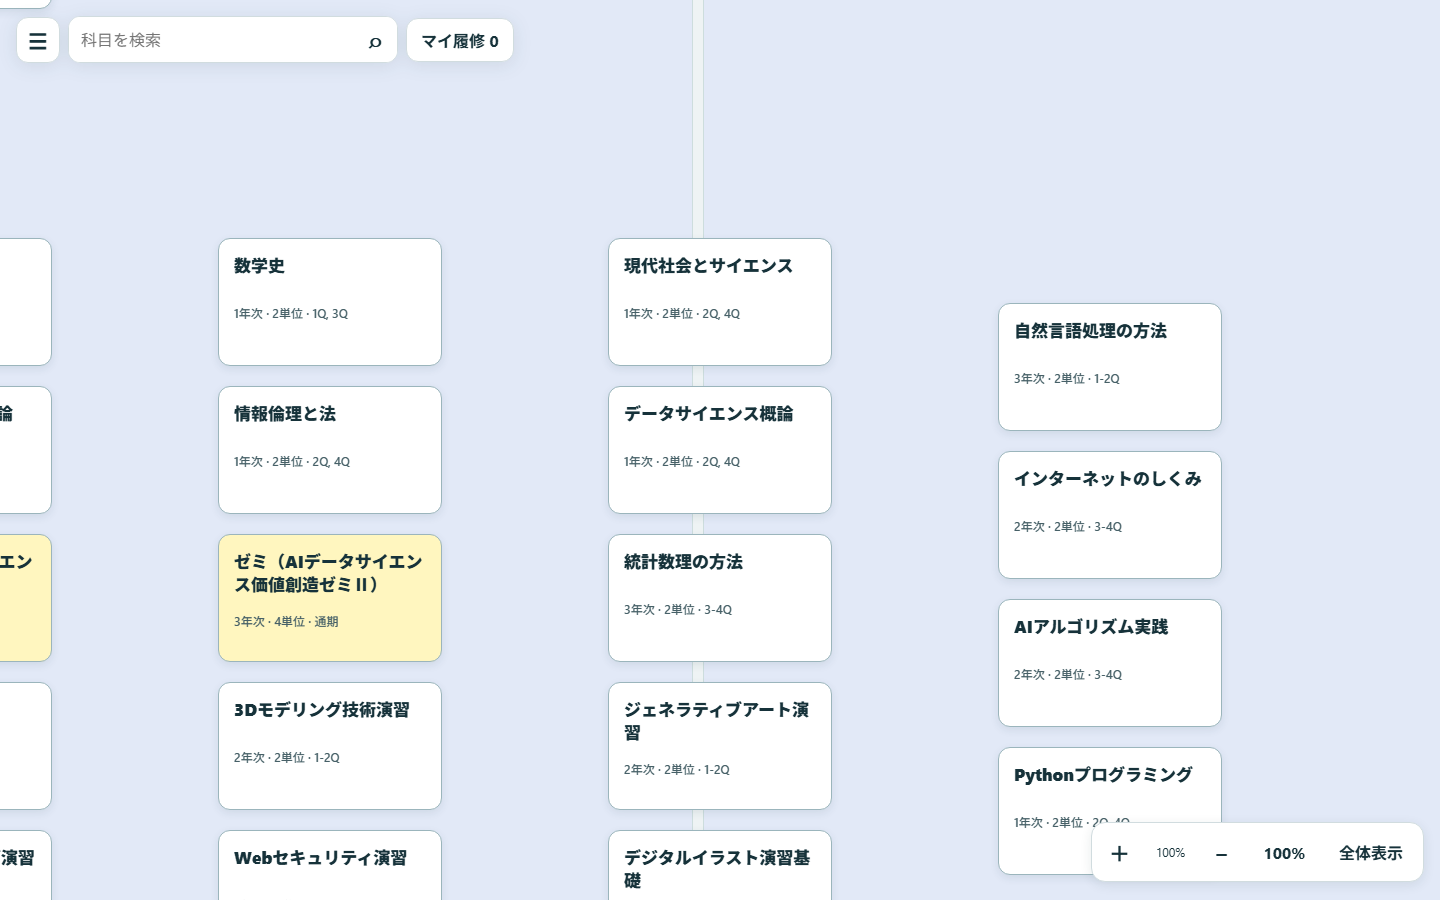
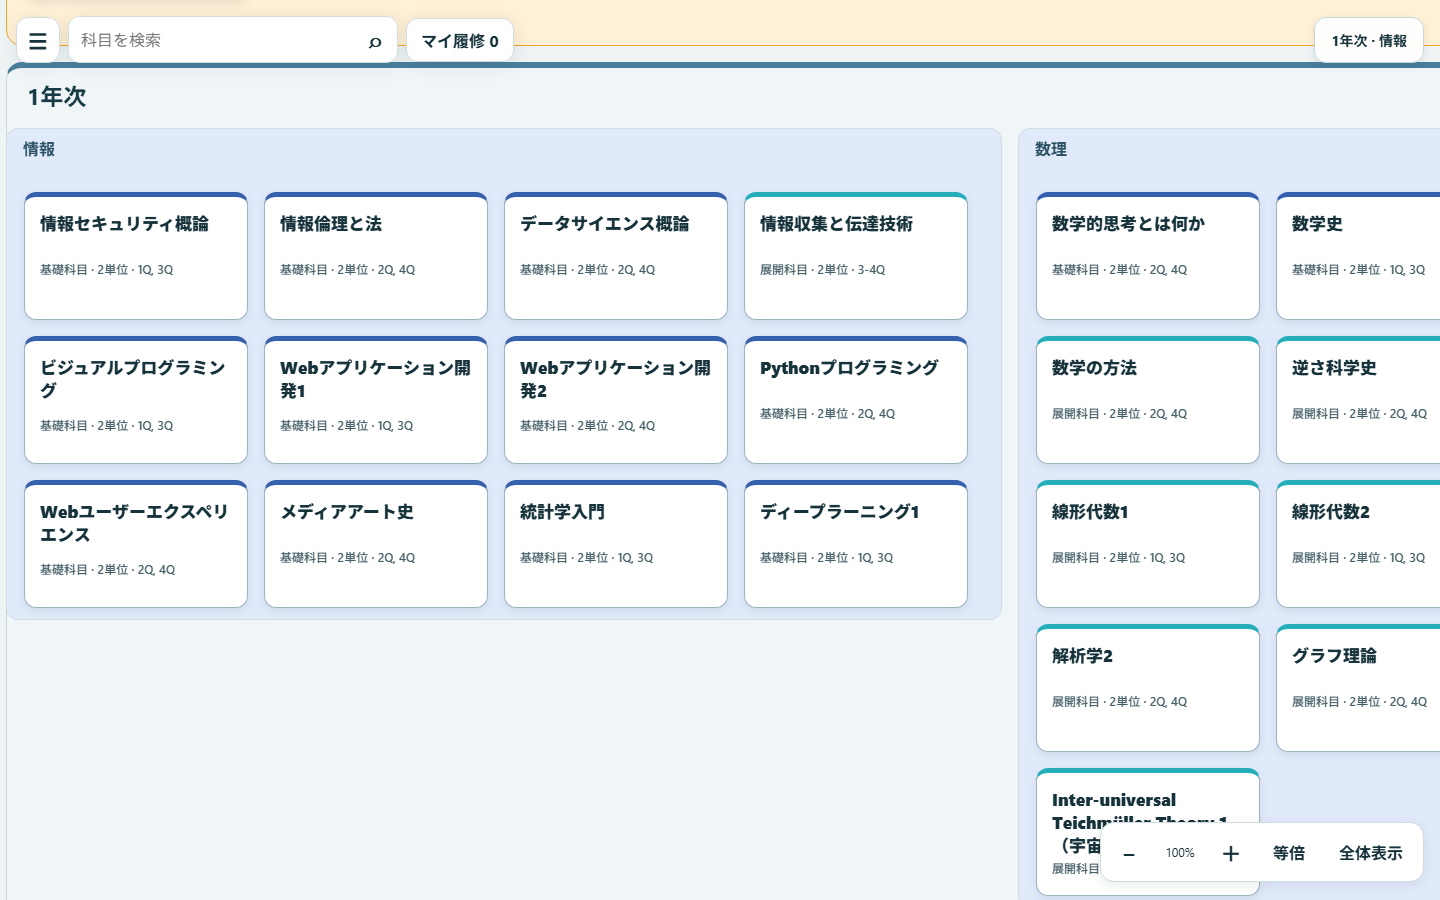
Redesign curriculum map layout and region navigation

diff --git a/curriculum-map.js b/curriculum-map.js
@@ -15,29 +15,66 @@
 }(typeof globalThis !== 'undefined' ? globalThis : this, () => {
   const CARD_WIDTH = 224;
   const CARD_HEIGHT = 128;
-  const GAP = 20;
+  const CARD_PITCH_X = 240;
+  const CARD_PITCH_Y = 144;
+  const FIELD_ORDER = ['情報', '数理', '多言語', '文化・思想', '社会・ネットワーク', '経済・マーケット', 'デジタル産業', '社会接続', '自由科目'];
+  const FIELD_COLORS = { 情報: '#e1eafb', 数理: '#e1eafb', 多言語: '#ffe5ed', '文化・思想': '#e2f4f1', '社会・ネットワーク': '#e2f4f1', '経済・マーケット': '#e2f4f1', デジタル産業: '#e2f4f1', 社会接続: '#f0f0df', 自由科目: '#eee6f4' };
   const intersects = (a, b) => a.x < b.x + b.width && b.x < a.x + a.width && a.y < b.y + b.height && b.y < a.y + a.height;
 
-  // Source coordinates retain the reviewed PDF arrangement. Their rectangles
-  // overlap partially even when there are no identical slots. Expand the map
-  // and move only colliding display boxes downward; never rewrite source data.
+  // The PDF positions identify subject order and field, but scaling them
+  // literally produces gaps and overlaps at a readable card size. Keep that
+  // order within each verified year/field group; never infer membership from
+  // pixel proximity or rewrite the reviewed placement JSON.
   const buildLayout = (definition, courses) => {
     const byId = new Map(courses.map((course) => [course.id, course]));
+    if (byId.size !== courses.length || definition.coursePlacements.length !== courses.length) throw new Error('科目配置の数を確認できません');
+    const entries = definition.coursePlacements;
+    if (entries.some((entry) => !byId.has(entry.courseId) || !Number.isFinite(entry.x) || !Number.isFinite(entry.y))) throw new Error('科目配置を確認できません');
+    const sortBySource = (a, b) => a.y - b.y || a.x - b.x || a.courseId.localeCompare(b.courseId);
     const placed = [];
-    const source = [...definition.coursePlacements].sort((a, b) => a.y - b.y || a.x - b.x || a.courseId.localeCompare(b.courseId));
-    for (const entry of source) {
-      if (!byId.has(entry.courseId) || ![entry.x, entry.y].every(Number.isFinite)) throw new Error('科目配置を確認できません');
-      const box = { id: entry.courseId, x: entry.x * 6000, y: entry.y * 6500, width: CARD_WIDTH, height: CARD_HEIGHT, sourceX: entry.x, sourceY: entry.y };
-      for (;;) {
-        const padded = { x: box.x - GAP / 2, y: box.y - GAP / 2, width: box.width + GAP, height: box.height + GAP };
-        const collisions = placed.filter((other) => intersects(padded, other));
-        if (!collisions.length) break;
-        box.y = Math.max(...collisions.map((other) => other.y + other.height)) + GAP;
-      }
-      placed.push(box);
+    const put = (entry, x, y, region) => placed.push({ id: entry.courseId, x, y, width: CARD_WIDTH, height: CARD_HEIGHT, sourceX: entry.x, sourceY: entry.y, year: byId.get(entry.courseId).year, field: entry.field, stage: entry.category, region });
+    const intro = entries.filter((entry) => entry.category === '導入科目').sort(sortBySource);
+    const introColumns = [...new Set(intro.map((entry) => entry.x))].sort((a, b) => a - b);
+    const introSlots = new Map();
+    intro.forEach((entry) => {
+      const column = introColumns.indexOf(entry.x);
+      const row = introSlots.get(column) || 0;
+      introSlots.set(column, row + 1);
+      put(entry, 84 + column * CARD_PITCH_X, 178 + row * CARD_PITCH_Y, 'intro');
+    });
+    const introHeight = 178 + Math.max(...introSlots.values(), 0) * CARD_PITCH_Y + 46;
+    const gridEntries = entries.filter((entry) => entry.category !== '導入科目' && entry.category !== '卒業プロジェクト');
+    const fields = FIELD_ORDER.filter((field) => gridEntries.some((entry) => entry.field === field)).map((field) => {
+      const maximum = Math.max(...[1, 2, 3, 4].map((year) => gridEntries.filter((entry) => entry.field === field && Number.parseInt(byId.get(entry.courseId).year, 10) === year).length));
+      return { field, lanes: Math.max(1, Math.ceil(maximum / 7)), color: FIELD_COLORS[field] };
+    });
+    if (gridEntries.some((entry) => !FIELD_ORDER.includes(entry.field))) throw new Error('未確認の分野があります');
+    let nextX = 64;
+    for (const field of fields) {
+      field.x = nextX;
+      field.width = field.lanes * CARD_PITCH_X + 36;
+      nextX += field.width + 16;
     }
-    if (placed.length !== byId.size || new Set(placed.map((box) => box.id)).size !== byId.size) throw new Error('科目配置に欠落または重複があります');
-    return { positions: placed, width: Math.max(6000, ...placed.map((box) => box.x + box.width + 80)), height: Math.max(6500, ...placed.map((box) => box.y + box.height + 120)) };
+    const width = Math.max(nextX + 48, 1600);
+    const years = [];
+    let nextY = introHeight;
+    for (let year = 1; year <= 4; year++) {
+      const rows = Math.max(...fields.map(({ field, lanes }) => Math.ceil(gridEntries.filter((entry) => entry.field === field && Number.parseInt(byId.get(entry.courseId).year, 10) === year).length / lanes)));
+      const region = { year, y: nextY, height: 136 + rows * CARD_PITCH_Y + 28 };
+      years.push(region);
+      for (const field of fields) {
+        const group = gridEntries.filter((entry) => entry.field === field.field && Number.parseInt(byId.get(entry.courseId).year, 10) === year).sort(sortBySource);
+        group.forEach((entry, index) => put(entry, field.x + 18 + index % field.lanes * CARD_PITCH_X, nextY + 130 + Math.floor(index / field.lanes) * CARD_PITCH_Y, `year-${year}`));
+      }
+      nextY += region.height + 16;
+    }
+    const project = entries.filter((entry) => entry.category === '卒業プロジェクト');
+    project.forEach((entry, index) => put(entry, 84 + index * CARD_PITCH_X, nextY + 110, 'project'));
+    if (placed.length !== byId.size || new Set(placed.map((box) => box.id)).size !== byId.size) {
+      const ids = new Set(placed.map((box) => box.id));
+      throw new Error(`科目配置に欠落または重複があります: ${entries.filter((entry) => !ids.has(entry.courseId)).map((entry) => entry.courseId).join(', ')}`);
+    }
+    return { positions: placed, width, height: nextY + 110 + Math.max(1, project.length) * CARD_PITCH_Y + 50, fields, years, introHeight, projectY: nextY };
   };
 
   const zoomAt = (camera, nextScale, anchor) => {
@@ -99,6 +136,12 @@
         cameraFrame = null;
         world.style.transform = `translate(${camera.x}px, ${camera.y}px) scale(${camera.scale})`;
         doc.getElementById('map-zoom-value').textContent = `${Math.round(camera.scale * 100)}%`;
+        // The leftmost fully readable field is the navigation context on a
+        // wide monitor, where several neighboring fields share the viewport.
+        const center = { x: (Math.min(size().width / 2, 280) - camera.x) / camera.scale, y: (size().height / 2 - camera.y) / camera.scale };
+        const year = layout.years.find((region) => center.y >= region.y && center.y < region.y + region.height);
+        const field = layout.fields.find((region) => center.x >= region.x && center.x < region.x + region.width);
+        doc.getElementById('map-location').textContent = center.y < layout.introHeight ? '導入科目' : center.y >= layout.projectY ? '卒業プロジェクト' : year ? `${year.year}年次 · ${field?.field || '分野を選択'}` : 'カリキュラムマップ';
       });
     };
     const focusCourse = (id) => {
@@ -109,34 +152,87 @@
       selectedId = id;
       updateNodes();
     };
+    const currentYear = () => {
+      const centerY = (size().height / 2 - camera.y) / camera.scale;
+      return layout.years.find((year) => centerY >= year.y && centerY < year.y + year.height)?.year || 1;
+    };
+    const currentField = () => {
+      const centerX = (Math.min(size().width / 2, 280) - camera.x) / camera.scale;
+      return layout.fields.find((field) => centerX >= field.x && centerX < field.x + field.width)?.field || '情報';
+    };
+    const regionCamera = (year, field) => ({
+      scale: 1,
+      // Start with a complete card near the left edge. Centering an entire
+      // field wasted much of a phone viewport and hid the adjacent cards.
+      x: (size().width < 600 ? 40 : 24) - field.x - 18,
+      // Keep the preceding row completely above the viewport. The year
+      // heading still clears the floating toolbar at normal zoom.
+      y: 62 - year.y
+    });
+    const focusRegion = (year, fieldName) => {
+      const region = layout.years.find((item) => item.year === year);
+      const field = layout.fields.find((item) => item.field === fieldName);
+      if (!region || !field) return;
+      // Frame the region title and its first complete card, including on a
+      // narrow phone. The selected course is not silently changed by a jump.
+      camera = regionCamera(region, field);
+      selectedId = '';
+      applyCamera(); updateNodes();
+    };
     const previewQuery = !win.CurriculumAccess.publicEnabled ? '?curriculumPreview=1' : '';
     doc.getElementById('map-back').href = `index.html${previewQuery}`;
     world.style.width = `${layout.width}px`;
     world.style.height = `${layout.height}px`;
 
     const background = doc.getElementById('map-background');
-    const groupColors = { foundation: '#e2e9f7', multilingual: '#fce7ed', world: '#e0f3f2', free: '#eee7f5' };
-    for (const column of definition.columns) {
-      const node = element('section', undefined, 'map-column');
-      Object.assign(node.style, { left: `${column.x / definition.canvas.width * 6000}px`, top: '330px', width: `${column.width / definition.canvas.width * 6000}px`, height: `${layout.height - 460}px`, background: groupColors[column.group] || '#ecf0e8' });
-      node.append(element('h2', column.label));
-      background.append(node);
-    }
-    for (const band of definition.bands.filter((item) => ['ap4', 'ap1-ap3-foundation', 'ap2', 'ap1-ap3-world'].includes(item.id))) {
+    const apBands = definition.bands.filter((item) => ['ap4', 'ap1-ap3-foundation', 'ap2', 'ap1-ap3-world'].includes(item.id));
+    const foundationsWidth = layout.fields.filter((field) => ['情報', '数理'].includes(field.field)).reduce((sum, field) => sum + field.width + 16, 0) - 16;
+    for (const band of apBands) {
       const node = element('div', band.label, 'map-band');
-      Object.assign(node.style, { left: `${band.x / definition.canvas.width * 6000}px`, top: `${band.y * 2}px`, width: `${band.width / definition.canvas.width * 6000}px`, background: band.color });
+      const isTop = band.id === 'ap4';
+      const x = isTop || band.id === 'ap1-ap3-foundation' ? 64 : band.id === 'ap2' ? 64 + foundationsWidth + 16 : layout.fields.find((field) => field.field === '文化・思想').x;
+      const width = isTop ? layout.width - 128 : band.id === 'ap1-ap3-foundation' ? foundationsWidth : band.id === 'ap2' ? layout.fields.find((field) => field.field === '多言語').width : layout.width - x - 64;
+      Object.assign(node.style, { left: `${x}px`, top: `${isTop ? 20 : 76}px`, width: `${width}px`, background: band.color });
       background.append(node);
     }
+    const introBand = element('section', undefined, 'map-stage-band map-intro-band');
+    Object.assign(introBand.style, { top: '132px', left: '64px', width: `${layout.width - 128}px`, height: `${layout.introHeight - 148}px` });
+    introBand.append(element('h2', '導入科目 · 14単位'));
+    background.append(introBand);
+    for (const year of layout.years) {
+      const band = element('section', undefined, 'map-stage-band map-year-band');
+      Object.assign(band.style, { top: `${year.y}px`, left: '64px', width: `${layout.width - 128}px`, height: `${year.height}px` });
+      band.append(element('h2', `${year.year}年次`));
+      background.append(band);
+      for (const field of layout.fields) {
+        const count = layout.positions.filter((box) => box.region === `year-${year.year}` && box.field === field.field).length;
+        if (!count) continue;
+        // A field's tint should frame its cards, not suggest that a sparse
+        // field occupies every lane needed by a different field that year.
+        const rows = Math.ceil(count / field.lanes);
+        const cell = element('section', undefined, 'map-field-cell');
+        Object.assign(cell.style, { left: `${field.x}px`, top: `${year.y + 66}px`, width: `${field.width}px`, height: `${60 + rows * CARD_PITCH_Y}px`, background: field.color });
+        cell.append(element('h3', field.field));
+        background.append(cell);
+      }
+    }
+    const projectBand = element('section', undefined, 'map-stage-band map-project-band');
+    Object.assign(projectBand.style, { top: `${layout.projectY}px`, left: '64px', width: `${layout.width - 128}px`, height: `${layout.height - layout.projectY - 32}px` });
+    projectBand.append(element('h2', '卒業プロジェクト'));
+    background.append(projectBand);
     const host = doc.getElementById('map-courses');
     for (const box of layout.positions) {
       const course = catalog.get(box.id);
       const node = element('button', undefined, 'map-course');
       node.type = 'button';
       node.dataset.courseId = course.id;
+      node.dataset.year = Number.parseInt(course.year, 10);
+      node.dataset.field = box.field;
+      node.dataset.stage = box.stage;
       node.draggable = true;
       node.setAttribute('aria-label', `${course.subject}の詳細`);
       Object.assign(node.style, { left: `${box.x}px`, top: `${box.y}px`, width: `${box.width}px`, height: `${box.height}px`, background: course.credits === 1 ? '#a7d8e6' : course.credits === 4 ? '#fff6bf' : '#fff' });
-      node.append(element('strong', course.subject), element('small', `${course.year} · ${course.credits}単位 · ${course.quarter || ''}`), element('span', '', 'course-state'));
+      node.append(element('strong', course.subject), element('small', `${box.stage} · ${course.credits}単位 · ${course.quarter || ''}`), element('span', '', 'course-state'));
       nodes.set(course.id, node);
       host.append(node);
     }
@@ -372,13 +468,26 @@
       doc.getElementById('map-search-results').hidden = true;
     });
     const field = doc.getElementById('map-field');
-    for (const value of [...new Set(courses.map((course) => course.tag).filter(Boolean))].sort()) { const option = element('option', value); option.value = value; field.append(option); }
-    field.addEventListener('change', () => { for (const [id, node] of nodes) node.classList.toggle('is-dimmed', Boolean(field.value && catalog.get(id).tag !== field.value)); });
+    for (const region of layout.fields) { const option = element('option', region.field); option.value = region.field; field.append(option); }
+    field.addEventListener('change', () => {
+      if (!field.value) return;
+      const chosen = field.value;
+      const presentYears = layout.years.filter((region) => layout.positions.some((box) => box.region === `year-${region.year}` && box.field === chosen));
+      const year = presentYears.find((region) => region.year === currentYear()) || presentYears[0];
+      if (year) focusRegion(year.year, chosen);
+      doc.getElementById('map-menu').hidden = true;
+      doc.getElementById('map-menu-toggle').setAttribute('aria-expanded', 'false');
+    });
     doc.getElementById('map-relation-mode').addEventListener('change', (event) => { relationMode = event.target.value; drawRelations(); });
     doc.querySelectorAll('[data-map-year]').forEach((button) => button.addEventListener('click', () => {
-      const options = courses.filter((course) => Number.parseInt(course.year) === Number(button.dataset.mapYear));
-      const target = options.sort((a, b) => positions.get(a.id).y - positions.get(b.id).y)[0];
-      if (target) focusCourse(target.id);
+      const year = Number(button.dataset.mapYear);
+      const current = currentField();
+      const count = (field) => layout.positions.filter((box) => box.region === `year-${year}` && box.field === field).length;
+      const available = layout.fields.find((field) => field.field === current && count(field.field) >= 3);
+      // A year jump should land on a meaningful cluster, not a nearly empty
+      // field merely because the camera happened to be there before.
+      const fallback = [...layout.fields].sort((a, b) => count(b.field) - count(a.field))[0];
+      focusRegion(year, (available || fallback).field);
       doc.getElementById('map-menu').hidden = true;
       doc.getElementById('map-menu-toggle').setAttribute('aria-expanded', 'false');
     }));
@@ -412,10 +521,10 @@
     win.addEventListener('resize', applyCamera);
     doc.getElementById('map-app').hidden = false;
     doc.getElementById('map-unavailable').hidden = true;
-    // A first-year cluster gives an immediate readable view of neighboring
-    // subjects; the single introductory card leaves most screens blank.
-    const first = positions.get('data_science_intro') || layout.positions[0];
-    camera = centerOn(first, size(), 1);
+    // Start at the first dense year/field panel instead of centering on a
+    // single card; this keeps whole cards and the panel heading in view.
+    const firstField = layout.fields.find((field) => field.field === '情報');
+    camera = regionCamera(layout.years[0], firstField);
     applyCamera(); updateNodes();
     if (!enrollment.writable) status('保存データを読み取れません。既存データは変更しません。', true);
     // Optional datasets do not block the map or enrollment if unavailable.

diff --git a/curriculum-map.css b/curriculum-map.css
@@ -16,9 +16,15 @@ a { color: #087764; }
 #map-world { position: absolute; top: 0; left: 0; transform-origin: 0 0; will-change: transform; }
 #map-background, #map-courses, #map-relations { position: absolute; inset: 0; width: 100%; height: 100%; }
 #map-background, #map-relations { pointer-events: none; }
-.map-column { position: absolute; border-radius: 20px; border: 1px solid #cddddd; }
-.map-column h2 { margin: 18px; font-size: 25px; color: #294751; }
-.map-band { position: absolute; padding: 12px 18px; border-radius: 12px; font-size: 24px; font-weight: 800; color: white; }
+.map-stage-band { position: absolute; border: 1px solid #cbd9da; border-radius: 16px; background: #f8faf8; }
+.map-stage-band h2 { margin: 0; padding: 14px 20px; font-size: 23px; line-height: 1.2; color: #183c45; }
+.map-intro-band { background: #fff0d6; border-color: #efa729; }
+.map-project-band { background: #fff2d9; border-color: #efa729; }
+.map-year-band { background: #f5f8fa; border-top: 6px solid #497e9d; }
+.map-year-band:nth-of-type(even) { background: #f0f5f7; }
+.map-field-cell { position: absolute; border: 1px solid #d1dddf; border-radius: 12px; }
+.map-field-cell h3 { margin: 0; padding: 10px 16px; font-size: 16px; line-height: 1.3; color: #285060; }
+.map-band { position: absolute; padding: 6px 16px; border-radius: 8px; font-size: 19px; line-height: 1.5; font-weight: 800; color: white; }
 .map-course { position: absolute; display: flex; flex-direction: column; justify-content: space-between; align-items: stretch; text-align: left; padding: 15px; border-radius: 12px; border: 1px solid #9bb5bc; box-shadow: 0 3px 9px #23434a18; font-size: 17px; line-height: 1.35; user-select: none; overflow: hidden; touch-action: none; }
 .map-course strong { display: -webkit-box; -webkit-box-orient: vertical; -webkit-line-clamp: 3; overflow: hidden; overflow-wrap: anywhere; }
 .map-course small { font-size: 12px; color: #466067; font-weight: 500; }
@@ -27,7 +33,15 @@ a { color: #087764; }
 .map-course.is-selected { outline: 4px solid #f08020; outline-offset: 4px; z-index: 3; }
 .map-course.is-dimmed { opacity: .24; }
 .map-course .course-state { font-size: 12px; font-weight: 800; color: #00745e; }
+.map-course[data-stage="導入科目"] { border-top: 5px solid #e39b22; }
+.map-course[data-stage="基礎科目"] { border-top: 5px solid #3560ad; }
+.map-course[data-stage="展開科目"] { border-top: 5px solid #24aebb; }
+.map-course[data-stage="選択必修"] { border-top: 5px solid #6a86a9; }
+.map-course[data-stage="社会接続"] { border-top: 5px solid #a5aa77; }
+.map-course[data-stage="自由"] { border-top: 5px solid #a181b8; }
+.map-course[data-stage="卒業プロジェクト"] { border-top: 5px solid #e39b22; }
 .map-toolbar { position: fixed; top: max(16px, env(safe-area-inset-top)); left: max(16px, env(safe-area-inset-left)); display: flex; gap: 8px; align-items: center; z-index: 10; max-width: calc(100vw - 32px); filter: drop-shadow(0 3px 9px #16323a18); }
+#map-location { position: fixed; top: max(17px, env(safe-area-inset-top)); right: max(16px, env(safe-area-inset-right)); z-index: 9; border: 1px solid #c5d7da; border-radius: 12px; background: #ffffffeb; padding: 12px 16px; font-size: 14px; font-weight: 750; box-shadow: 0 3px 9px #16323a18; pointer-events: none; }
 #map-search-form { display: flex; background: white; border: 1px solid #d1dcdf; border-radius: 12px; overflow: hidden; width: 330px; max-width: 40vw; }
 #map-search { width: 100%; min-width: 0; border: 0; outline-offset: -3px; padding: 10px 12px; }
 #map-search-form button { border: 0; border-radius: 0; }
@@ -69,6 +83,7 @@ a { color: #087764; }
   #map-search-form { flex: 1; width: auto; max-width: none; }
   #map-enrollment-toggle { font-size: 12px; padding: 8px; white-space: nowrap; }
   #map-search-results { left: 0; top: 54px; width: 100%; max-width: none; }
+  #map-location { top: max(64px, calc(env(safe-area-inset-top) + 54px)); right: 10px; padding: 8px 12px; font-size: 12px; }
   .map-menu { top: 64px; left: 10px; max-width: calc(100vw - 20px); }
   .map-zoom { right: 10px; bottom: max(12px, env(safe-area-inset-bottom)); gap: 0; padding: 4px; }
   .map-zoom button { font-size: 13px; padding: 8px; }

diff --git a/curriculum.html b/curriculum.html
@@ -24,6 +24,7 @@
       <button id="map-enrollment-toggle" type="button" aria-controls="map-drawer" aria-expanded="false">マイ履修 <span id="map-enrollment-count">0</span></button>
       <div id="map-search-results" hidden role="region" aria-label="検索結果"></div>
     </header>
+    <output id="map-location" aria-label="表示中の領域"></output>
     <nav id="map-menu" class="map-menu" hidden aria-label="マップメニュー">
       <h1>カリキュラムマップ</h1>
       <a id="map-back" href="index.html">一覧へ戻る</a>
@@ -38,10 +39,10 @@
       <small>配置参考：公式カリキュラム図。開講情報は各科目のシラバスをご確認ください。</small>
     </nav>
     <div class="map-zoom" aria-label="表示倍率">
-      <button id="map-zoom-in" class="icon-button" type="button" aria-label="拡大">＋</button>
-      <output id="map-zoom-value" aria-label="現在の倍率">100%</output>
       <button id="map-zoom-out" class="icon-button" type="button" aria-label="縮小">−</button>
-      <button id="map-normal" type="button">100%</button>
+      <output id="map-zoom-value" aria-label="現在の倍率">100%</output>
+      <button id="map-zoom-in" class="icon-button" type="button" aria-label="拡大">＋</button>
+      <button id="map-normal" type="button">等倍</button>
       <button id="map-fit" type="button">全体表示</button>
     </div>
     <div id="map-status" role="status" aria-live="polite" hidden></div>
